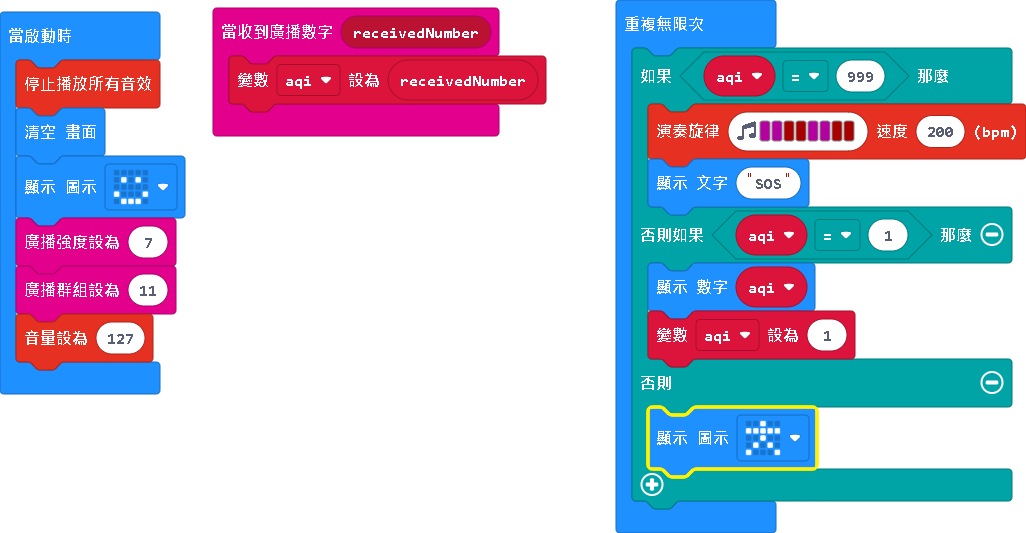
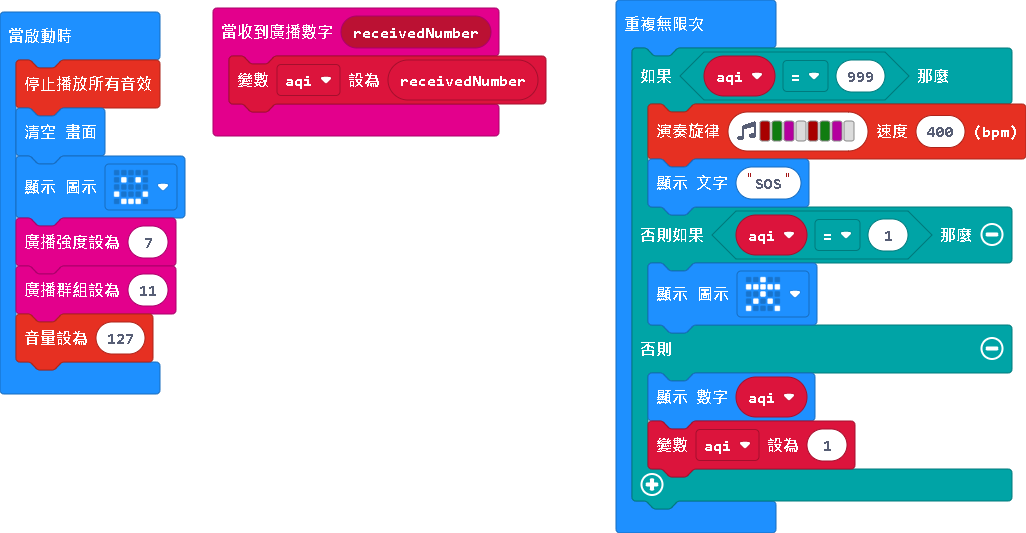
更新 main.blocks, main.ts

Changed region(s): [[0.6238, 0.4803, 0.9981, 0.9006], [0.7173, 0.2101, 0.8421, 0.2702]]

diff --git a/main.ts b/main.ts
@@ -10,12 +10,12 @@ radio.setGroup(11)
 music.setVolume(127)
 basic.forever(function () {
     if (aqi == 999) {
-        music.playMelody("C C C5 C5 C C C5 C5 ", 200)
+        music.playMelody("C5 G C - C5 G C - ", 400)
         basic.showString("SOS")
     } else if (aqi == 1) {
+        basic.showIcon(IconNames.StickFigure)
+    } else {
         basic.showNumber(aqi)
         aqi = 1
-    } else {
-        basic.showIcon(IconNames.StickFigure)
     }
 })
